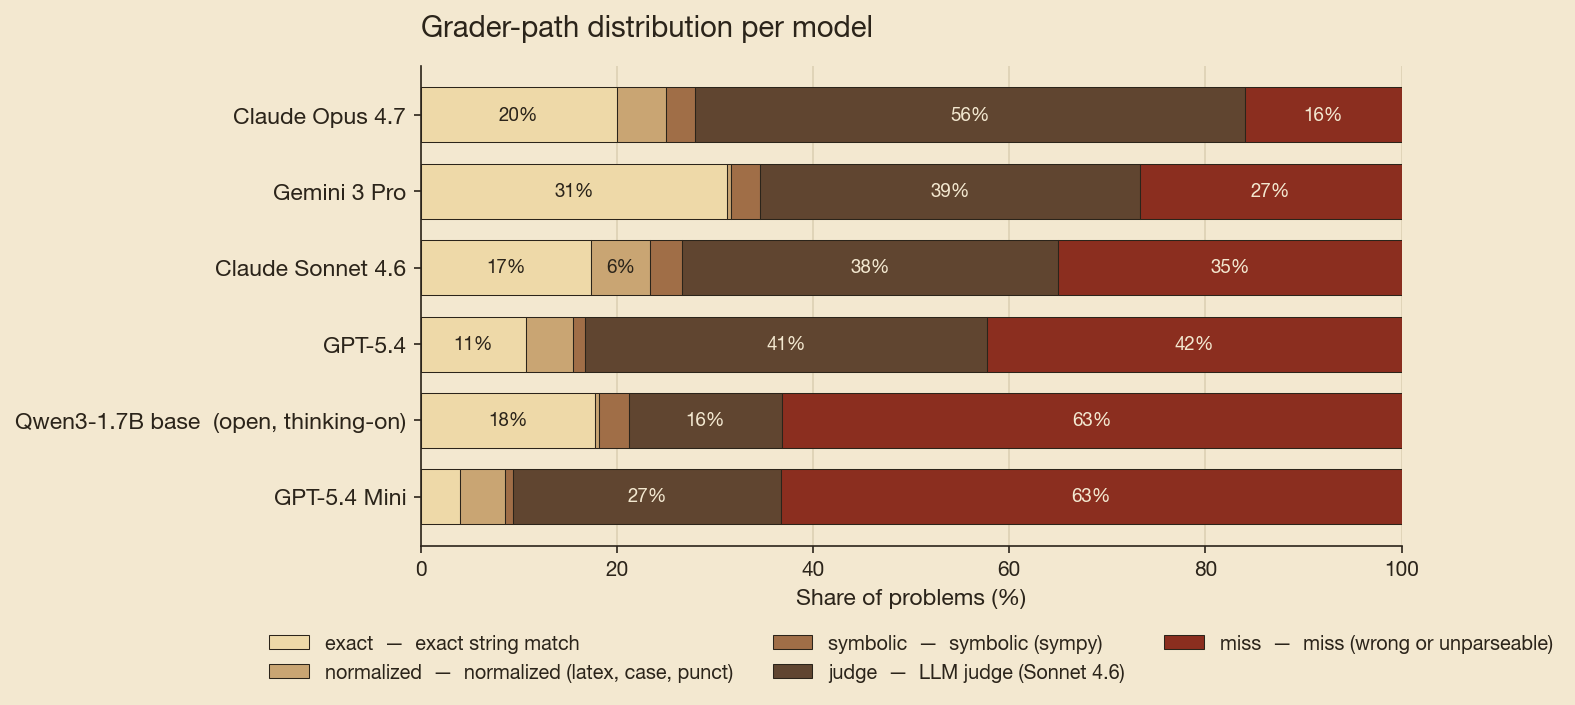
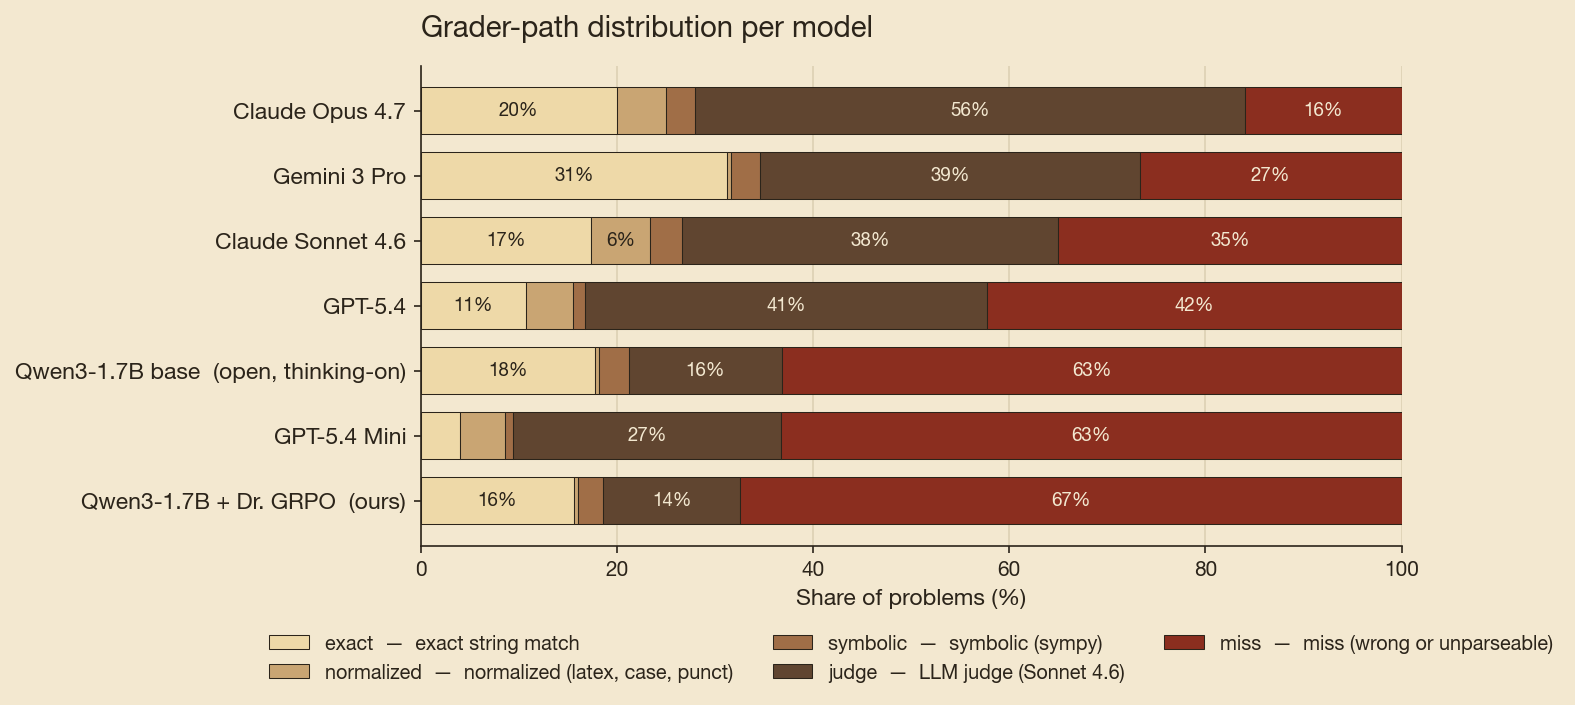
drgrpo: regen figures to include Dr. GRPO
Five PNGs that depend on the model list now show Run 5:
- results/figures/scoreboard.png: full sorted accuracy bars (added Dr. GRPO row at 32.6%)
- results/figures/grader_paths.png: per-model grader-path stack (added Dr. GRPO row)
- results/figures/blog_runs.png: ablation-style runs table (added Run 5 highlighted row)
- results/figures/blog_scoreboard.png: rewritten unchanged for consistency

Also commits scripts/make_blog_tables.py (was untracked) and the
make_figures.py MODEL_ORDER + OURS_SLUGS update so anyone running
scripts/make_figures.py + scripts/make_blog_tables.py reproduces
the same set.

The miss_mode_decomposition.png 5-bar regen landed in the previous
commit (85e534a). The Run-4-specific figures (transition_matrix and
per_competition_delta) are intentionally unchanged — they compare
Run 4 to base, not Dr. GRPO.

Changed region(s): [[0.0, 0.1248, 0.9022, 0.7489], [0.1556, 0.1248, 0.2489, 0.1872]]

diff --git a/scripts/make_blog_tables.py b/scripts/make_blog_tables.py
@@ -1,0 +1,124 @@
+"""Render the two LinkedIn-blog tables as PNGs.
+
+LinkedIn Articles strip HTML tables; image embeds are the reliable path.
+Outputs match the project's Patagonia palette so they slot in next to
+figures A/B.
+
+    python scripts/make_blog_tables.py
+
+Writes:
+    results/figures/blog_scoreboard.png
+    results/figures/blog_runs.png
+"""
+from __future__ import annotations
+
+from pathlib import Path
+
+import matplotlib.pyplot as plt
+
+REPO = Path(__file__).resolve().parent.parent
+FIGURES = REPO / "results" / "figures"
+
+CREAM = "#F3E8D0"
+INK = "#2B241A"
+SAND = "#E8D4A8"
+ROW_LIGHT = "#FBF3DD"
+ROW_DARK = "#F3E8D0"
+HIGHLIGHT_GREEN = "#DCE8D2"
+HIGHLIGHT_RUST = "#F4D5C2"
+
+
+def render_table(headers, rows, col_widths, highlights, out_path, figsize, fontsize=11):
+    """Render a styled table to PNG using matplotlib.table.
+
+    highlights: dict mapping body-row-index (0-based) -> hex fill colour.
+    """
+    fig, ax = plt.subplots(figsize=figsize)
+    ax.set_axis_off()
+    fig.patch.set_facecolor(CREAM)
+
+    n_cols = len(headers)
+    cell_colours = []
+    for i in range(len(rows)):
+        if i in highlights:
+            cell_colours.append([highlights[i]] * n_cols)
+        else:
+            cell_colours.append([ROW_LIGHT if i % 2 == 0 else ROW_DARK] * n_cols)
+
+    table = ax.table(
+        cellText=rows,
+        colLabels=headers,
+        colWidths=col_widths,
+        cellColours=cell_colours,
+        colColours=[SAND] * n_cols,
+        cellLoc="left",
+        loc="center",
+    )
+    table.auto_set_font_size(False)
+    table.set_fontsize(fontsize)
+    # Row height scale: multi-line cells need extra vertical space.
+    has_multiline = any("\n" in str(c) for row in rows for c in row)
+    table.scale(1, 2.4 if has_multiline else 1.7)
+
+    # styling pass
+    for (row, col), cell in table.get_celld().items():
+        cell.set_edgecolor(INK)
+        cell.set_linewidth(0.5)
+        cell.PAD = 0.04
+        if row == 0:
+            cell.set_text_props(weight="bold", color=INK)
+            cell.set_height(cell.get_height() * 1.05)
+        else:
+            cell.set_text_props(color=INK)
+
+    fig.savefig(out_path, dpi=220, bbox_inches="tight", facecolor=CREAM)
+    plt.close(fig)
+    print(f"wrote {out_path}")
+
+
+def scoreboard_table():
+    headers = ["Model", "N scored", "Accuracy"]
+    col_widths = [0.62, 0.18, 0.20]
+    rows = [
+        ["Claude Opus 4.7  (spot-check)",            "100",       "84.0%"],
+        ["Gemini 3 Pro  (partial)",                  "240 / 300", "73.3%"],
+        ["Claude Sonnet 4.6",                         "500",       "65.0%"],
+        ["GPT-5.4",                                   "495 / 500", "57.8%"],
+        ["Qwen3-1.7B base  (open, thinking-on, 16K)", "500",       "36.8%"],
+        ["GPT-5.4 Mini",                              "498 / 500", "36.7%"],
+    ]
+    # highlight the Qwen3 base row in green (the open-weights anchor)
+    highlights = {4: HIGHLIGHT_GREEN}
+    render_table(headers, rows, col_widths, highlights,
+                 FIGURES / "blog_scoreboard.png",
+                 figsize=(11, 3.3))
+
+
+def runs_table():
+    headers = ["Run", "Single change vs. previous", "Paired Δ vs. base"]
+    col_widths = [0.08, 0.64, 0.28]
+    rows = [
+        ["Run 1", "tutorial-default QLoRA on Qwen2.5-1.5B-Instruct\n(LoRA r=16, LR 2e-4, eff batch 16)",                  "−6 pp   (n=150)"],
+        ["Run B", "+ completion_only_loss=True\n(single-variable loss-masking fix)",                                      "−8 pp   (n=150)"],
+        ["Run 2", "switched to Qwen3-1.7B; recipe-matched Alibaba Qwen2.5-Math 1.5B\n(LR cut 10×, batch up 8×, base swapped)",
+                                                                                                                            "−33.8 pp   (n=500)"],
+        ["Run 3", "+ boxed-answer augmentation",                                                                          "−33.0 pp   (n=500)"],
+        ["Run 4", "self-distilled — base's own correct outputs,\nfull <think> traces preserved",                          "−8.0 pp   (n=500, p ≈ 10⁻⁴)"],
+        ["Run 5", "Dr. GRPO bias-corrected RL\n(LR 1e-6, group=4, 200 steps, thinking-on)",                                "−4.2 pp   (n=500, p ≈ 0.024)"],
+    ]
+    # highlight Run 5 row (the latest result row)
+    highlights = {5: HIGHLIGHT_RUST}
+    render_table(headers, rows, col_widths, highlights,
+                 FIGURES / "blog_runs.png",
+                 figsize=(14, 4.6), fontsize=10.5)
+
+
+def main() -> int:
+    FIGURES.mkdir(parents=True, exist_ok=True)
+    scoreboard_table()
+    runs_table()
+    return 0
+
+
+if __name__ == "__main__":
+    raise SystemExit(main())

diff --git a/scripts/make_figures.py b/scripts/make_figures.py
@@ -48,12 +48,13 @@ MODEL_ORDER = [
     ("gpt-5.4", "GPT-5.4"),
     ("qwen3-1.7b-base", "Qwen3-1.7B base  (open, thinking-on)"),
     ("gpt-5.4-mini", "GPT-5.4 Mini"),
+    ("qwen3-1.7b-drgrpo", "Qwen3-1.7B + Dr. GRPO  (ours)"),
     ("qwen3-1.7b-run4", "Qwen3-1.7B + Run 4 self-distill  (ours)"),
 ]
 # slugs that are open-weights (forest green) and project-internal results
 # (slate). Everything else is a rust frontier-API row.
 OPEN_SLUGS = {"qwen3-1.7b-base"}
-OURS_SLUGS = {"qwen3-1.7b-run4"}
+OURS_SLUGS = {"qwen3-1.7b-run4", "qwen3-1.7b-drgrpo"}
 
 
 def base_style() -> None:
